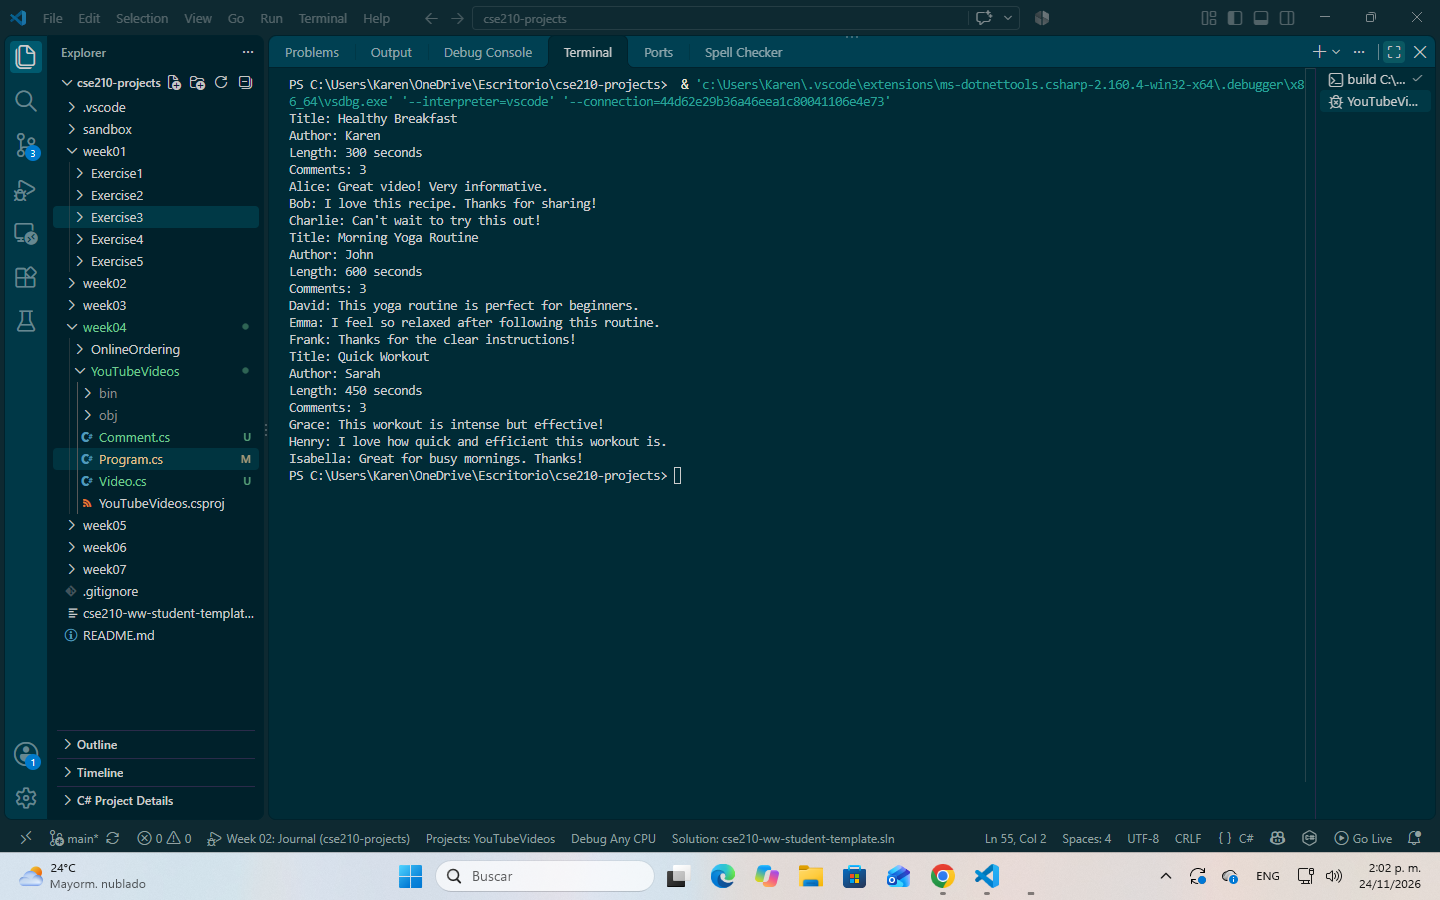
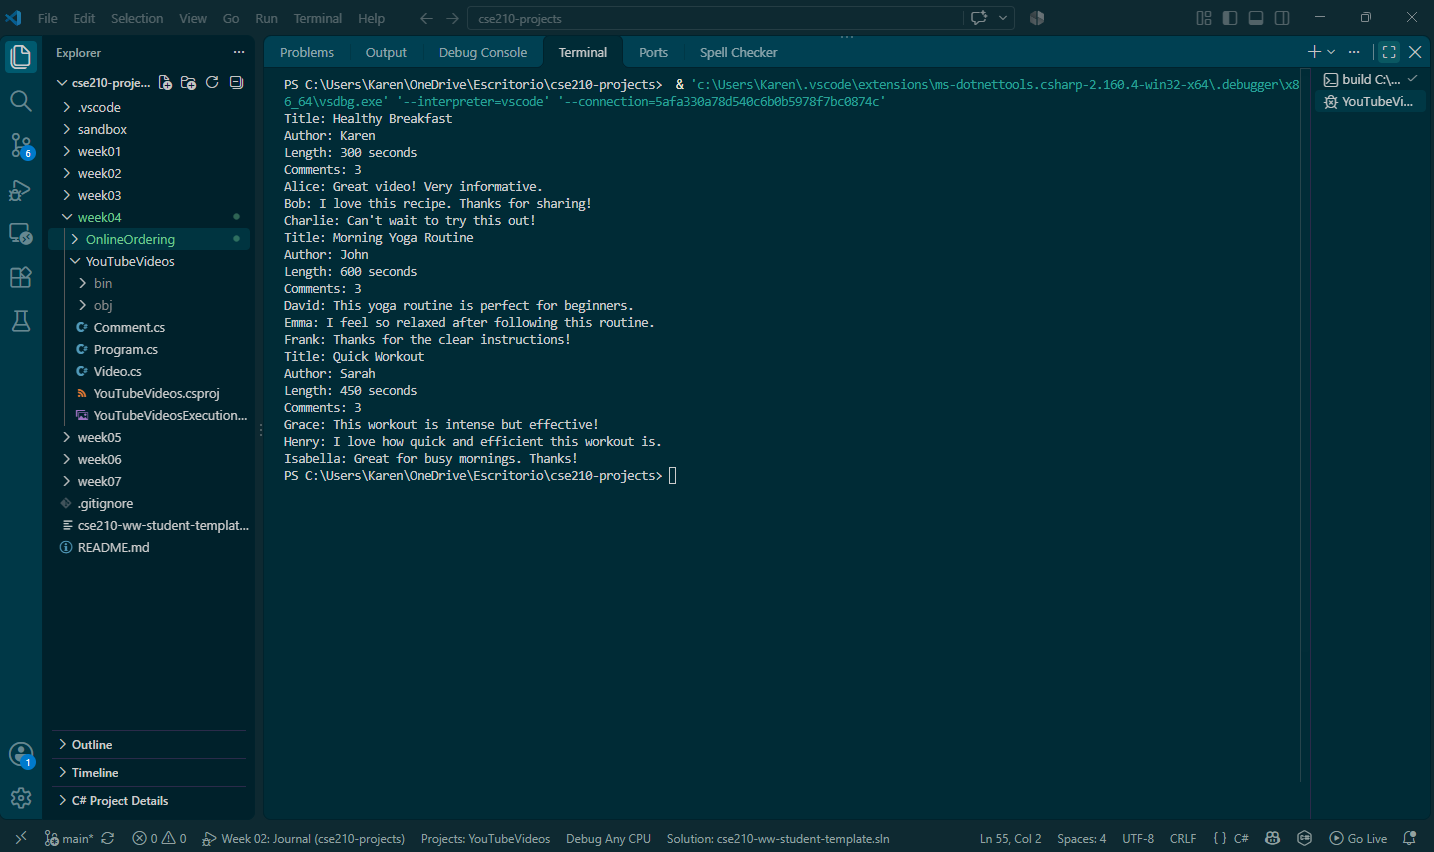
online

Changed region(s): [[0.0, 0.0, 1.0, 0.7324], [0.0, 0.8239, 1.0, 1.0]]

diff --git a/week04/OnlineOrdering/Program.cs b/week04/OnlineOrdering/Program.cs
@@ -4,6 +4,41 @@ class Program
 {
     static void Main(string[] args)
     {
-        Console.WriteLine("Hello World! This is the OnlineOrdering Project.");
+        Address address1 = new Address("164 Main St", "New York", "NY", "USA");
+        Customer customer1 = new Customer("Lukas Saenz", address1);
+        Order order1 = new Order(customer1);
+
+        Product product1 = new Product("Laptop", "W123", 10.99m, 2);
+        Product product2 = new Product("Airpods", "G456", 5.49m, 3);
+
+        order1.AddProduct(product1);
+        order1.AddProduct(product2);
+
+        Address address2 = new Address("14 King St", "Toronto", "ON", "Canada");
+        Customer customer2 = new Customer("Rita Doe", address2);
+        Order order2 = new Order(customer2);
+
+        Product product3 = new Product("Monitor", "M789", 15.99m, 1);
+        Product product4 = new Product("Keyboard", "K012", 7.99m, 2);
+        order2.AddProduct(product3);
+        order2.AddProduct(product4);
+
+        Console.WriteLine("Order 1:");
+        Console.WriteLine("Packing Label:");
+        Console.WriteLine(order1.GetPackingLabel());
+
+        Console.WriteLine("Shipping Label:");
+        Console.WriteLine(order1.GetShippingLabel());
+
+        Console.WriteLine($"Total Price: ${order1.GetTotalPrice()}");
+        
+        Console.WriteLine("Order 2:");
+        Console.WriteLine("Packing Label:");
+        Console.WriteLine(order2.GetPackingLabel());
+
+        Console.WriteLine("Shipping Label:");
+        Console.WriteLine(order2.GetShippingLabel());
+
+        Console.WriteLine($"Total Price: ${order2.GetTotalPrice()}");
     }
 }

diff --git a/week04/OnlineOrdering/Order.cs b/week04/OnlineOrdering/Order.cs
@@ -1,0 +1,57 @@
+using System;
+using System.Collections.Generic;
+
+public class Order
+{
+    private Customer _customer;
+    private List<Product> _products;
+
+    public Order(Customer customer)
+    {
+        _customer = customer;
+        _products = new List<Product>();
+    }
+
+    public void AddProduct(Product product)
+    {
+        _products.Add(product);
+    }
+
+    public decimal GetTotalPrice()
+    {
+        decimal totalPrice = 0;
+
+        foreach (Product product in _products)
+        {
+            totalPrice += product.GetTotalPrice();
+        }
+        
+        if (_customer.IsInUSA())
+        {
+            totalPrice += 5;
+        }
+        else
+        {
+            totalPrice += 35;
+        }
+
+        return totalPrice;
+    }
+
+    public string GetPackingLabel()
+    {
+        string label = "";
+
+        foreach (Product product in _products)
+        {
+            label += $"{product.GetName()} ({product.GetProductId()})\n";
+        }
+
+        return label;
+    }
+
+    public string GetShippingLabel()
+    {
+        return $"{_customer.GetName()}\n{_customer.GetAddress().GetAddress()}";
+    }
+}

diff --git a/week04/OnlineOrdering/Product.cs b/week04/OnlineOrdering/Product.cs
@@ -1,0 +1,42 @@
+using System;
+
+public class Product
+{
+    private string _name;
+    private string _productId;
+    private decimal _price;
+    private int _quantity;
+
+    public Product(string name, string productId, decimal price, int quantity)
+    {
+        _name = name;
+        _productId = productId;
+        _price = price;
+        _quantity = quantity;
+    }
+
+    public decimal GetTotalPrice()
+    {
+        return _price * _quantity;
+    }
+
+    public string GetName()
+    {
+        return _name;
+    }
+
+    public string GetProductId()
+    {
+        return _productId;
+    }
+
+    public decimal GetPrice()
+    {
+        return _price;
+    }
+
+    public int GetQuantity()
+    {
+        return _quantity;
+    }
+}

diff --git a/week04/OnlineOrdering/Address.cs b/week04/OnlineOrdering/Address.cs
@@ -1,0 +1,27 @@
+using System;
+
+public class Address
+{
+    private string _street;
+    private string _city;
+    private string _state;
+    private string _country;
+
+    public Address(string street, string city, string state, string country)
+    {
+        _street = street;
+        _city = city;
+        _state = state;
+        _country = country;
+    }
+
+    public bool IsInUSA()
+    {
+        return _country == "USA";
+    }
+
+    public string GetAddress()
+    {
+        return $"{_street},\n{_city}, {_state},\n{_country}";
+    }
+}

diff --git a/week04/OnlineOrdering/Customer.cs b/week04/OnlineOrdering/Customer.cs
@@ -1,0 +1,29 @@
+using System;
+
+public class Customer
+{
+    private string _name;
+    private Address _address;
+
+    public Customer(string name, Address address)
+    {
+        _name = name;
+        _address = address;
+    }
+
+    public bool IsInUSA()
+    {
+        return _address.IsInUSA();
+    }
+
+    public string GetName()
+    {
+        return _name;
+    }
+
+    public Address GetAddress()
+    {
+        return _address;
+    }
+
+}
